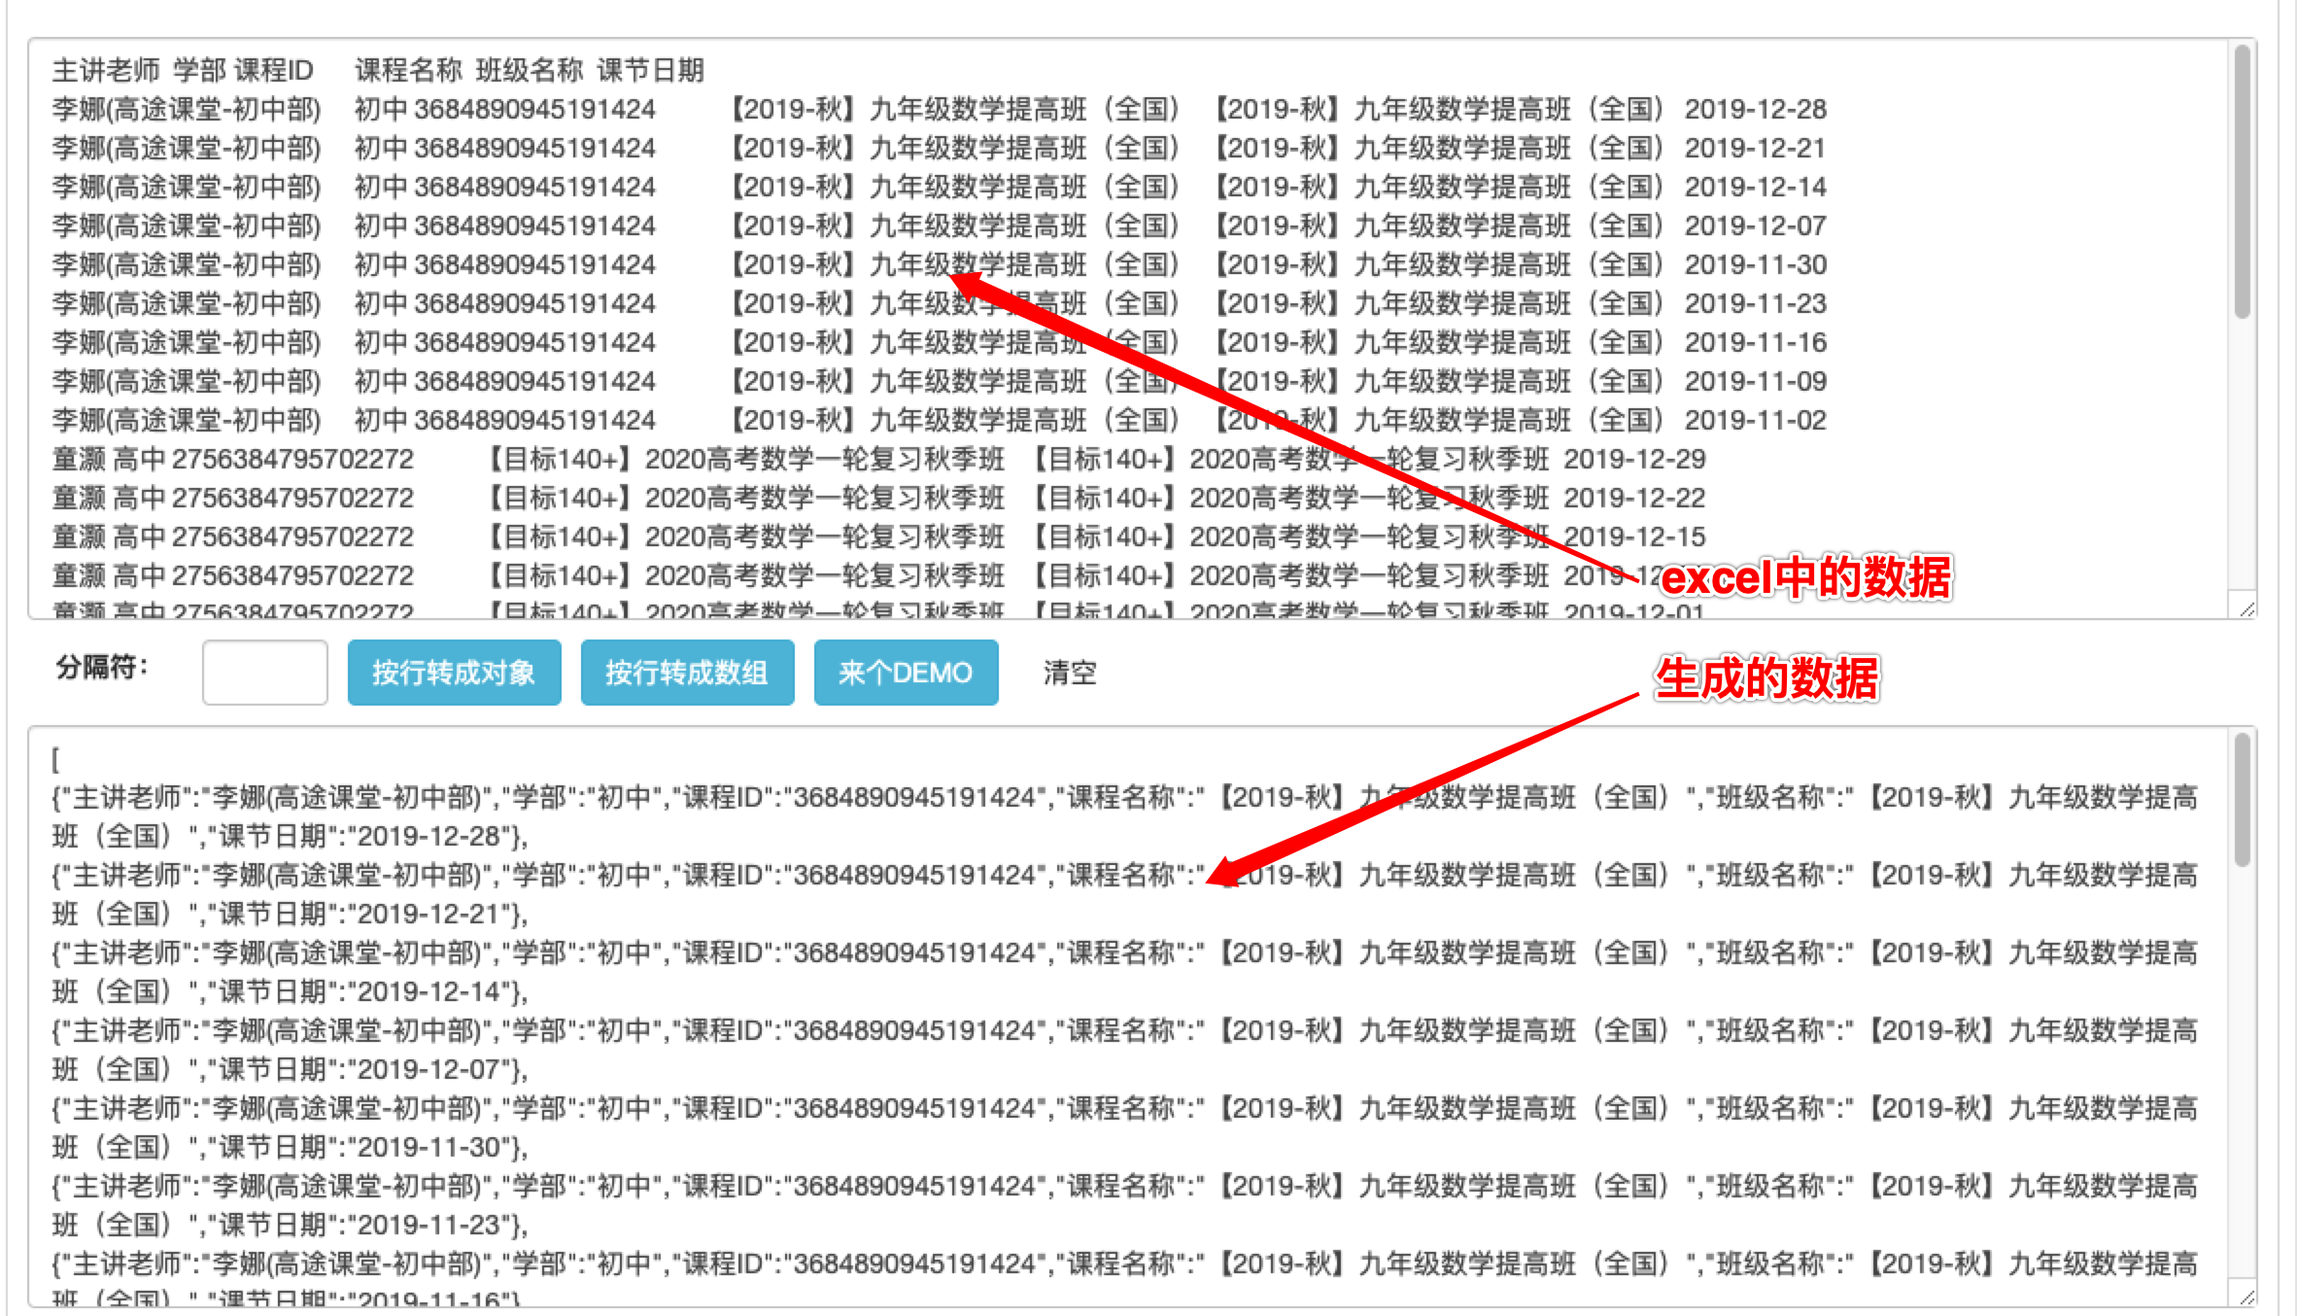
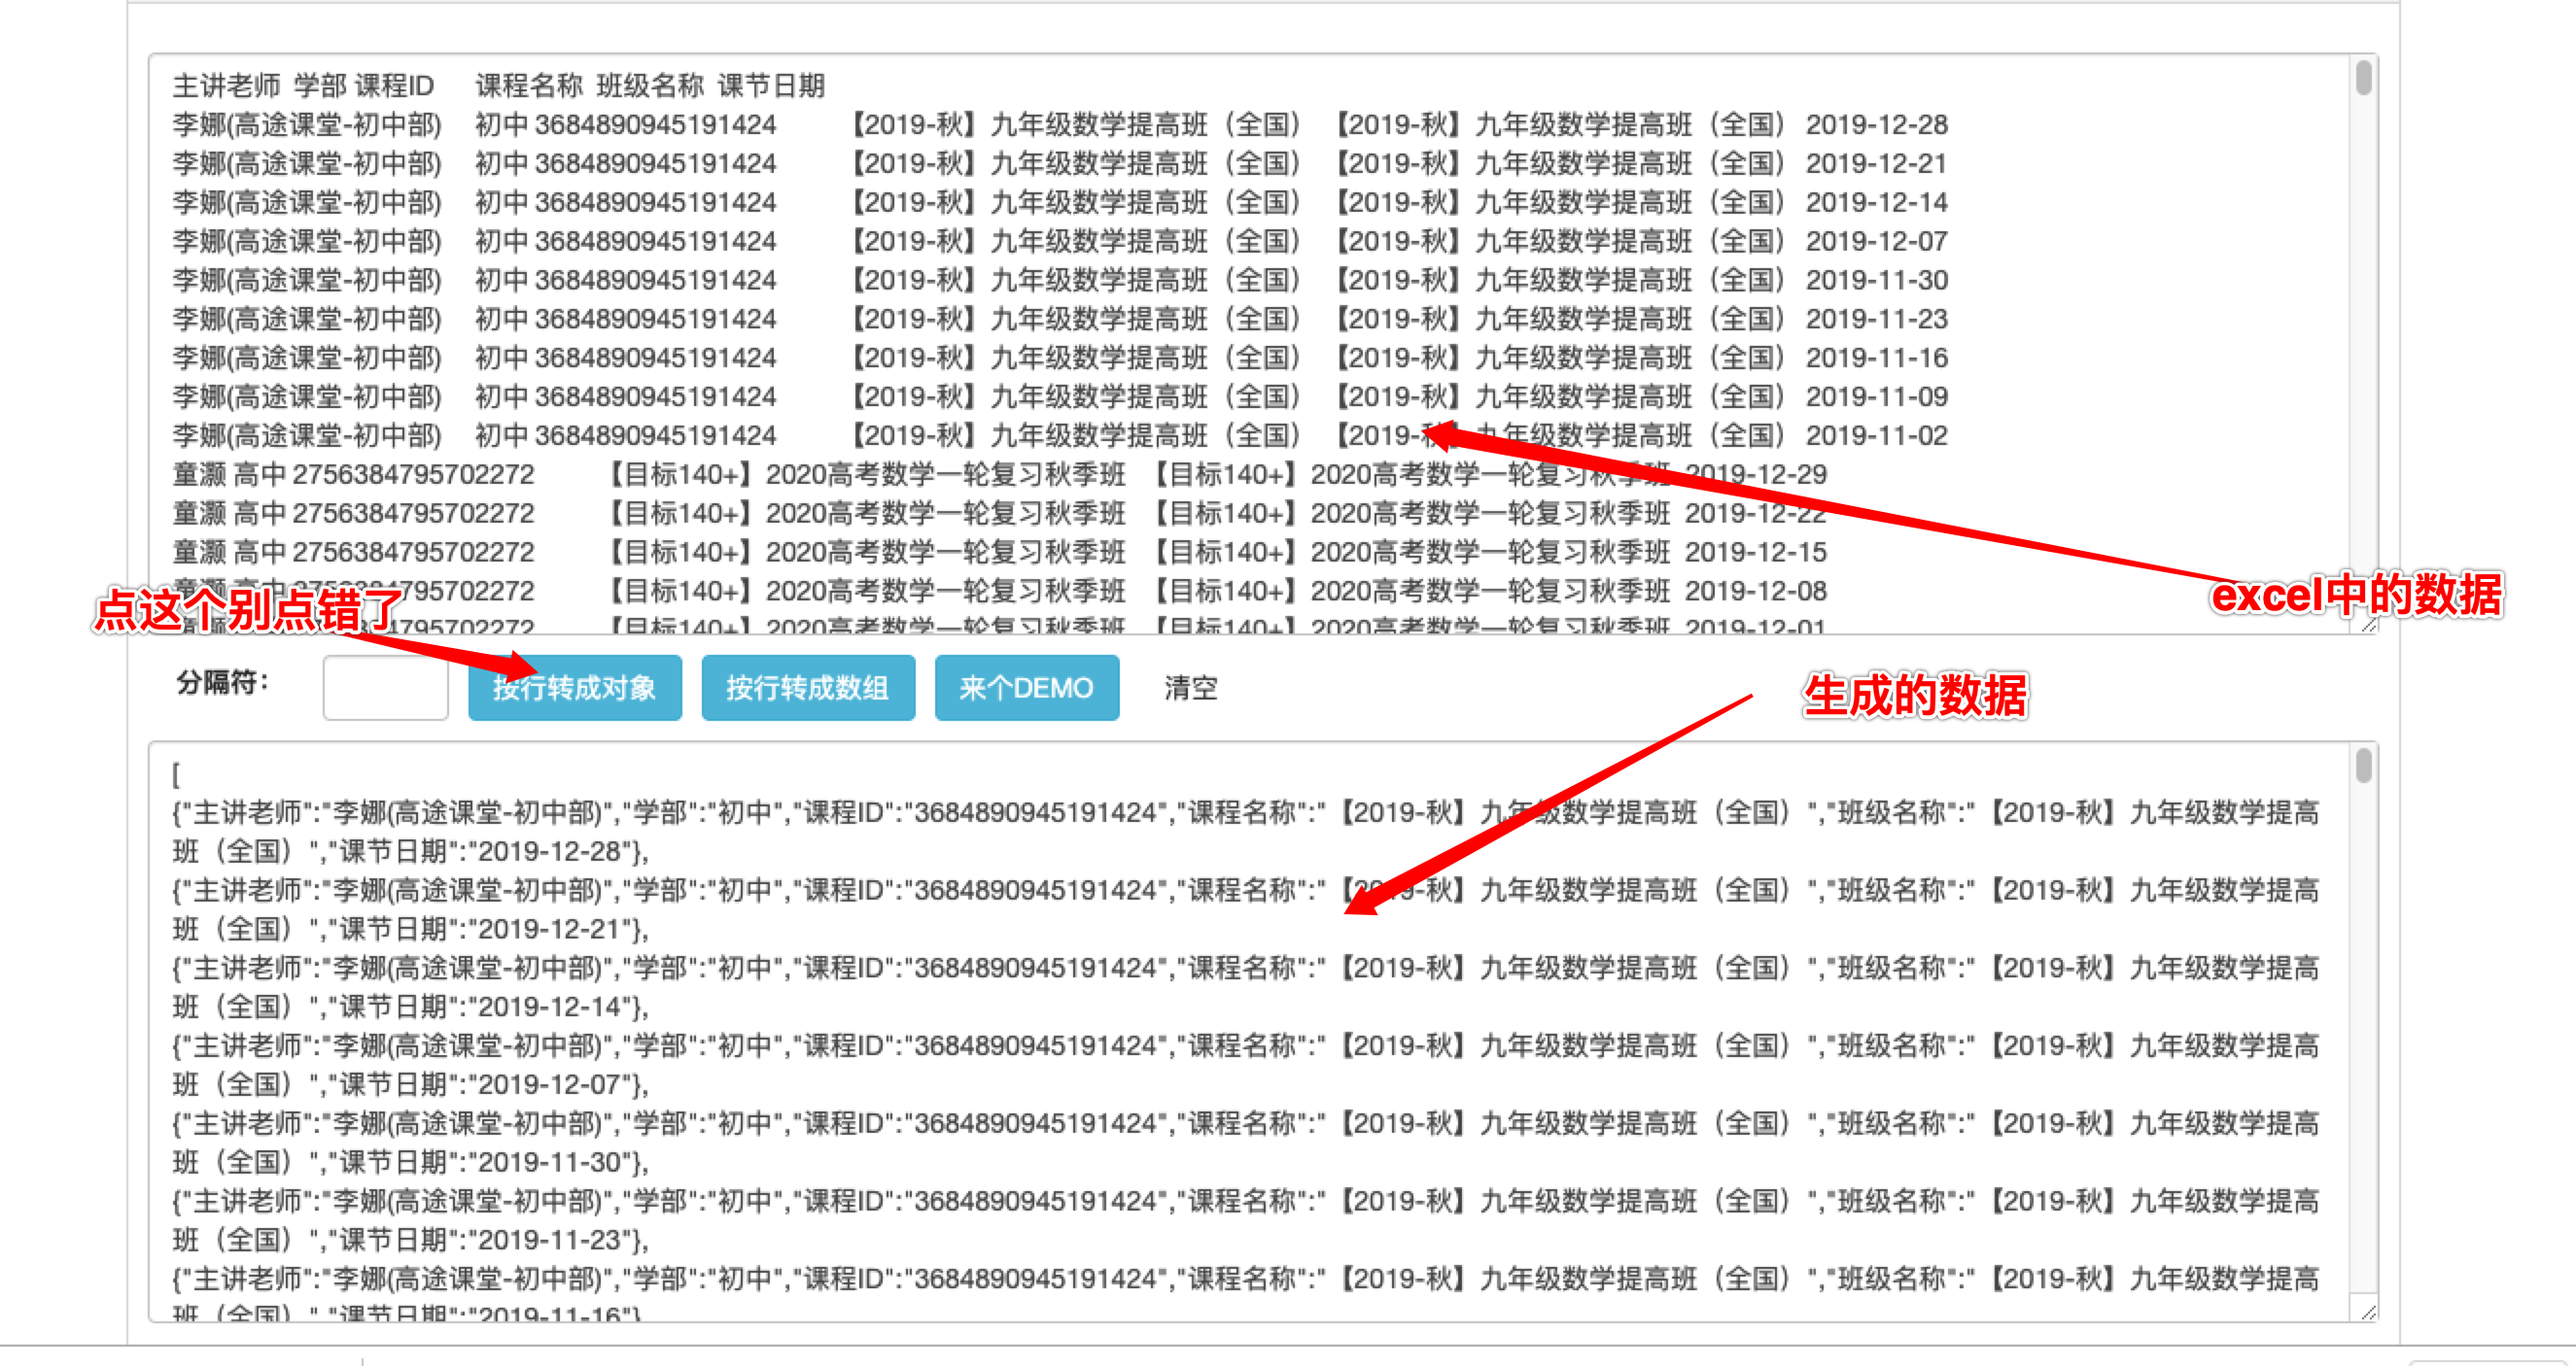
Add files via upload

diff --git a/index.html b/index.html
@@ -27,8 +27,8 @@
                 >
             </p>
             <p>2.将excel表中的数据copy到打开网页的第一个输入框</p>
-            <p>3.点击“将行转化为数组”</p>
-            <p>4.生成如下数据</p>
+            <p>3.点击“将行转化为对象”</p>
+            <p>4.生成如下数据（下图看不清请右键于新标签页打开图片）</p>
             <img src="./json.png" alt="" class="img" />
         </div>
         <div class="">
@@ -45,27 +45,27 @@
         <textarea id="outer" name="" id="" cols="80" rows="30"></textarea>
         <script>
             var defaultPrevData =
-            '[\n'+
-            '   {\n'+
-            '       "主讲老师": "李娜(高途课堂-初中部)",\n'+
-            '       "学部": "初中",\n'+
-            '       "课程ID": "3684890945191424",\n'+
-            '       "课程名称": "【2019-秋】九年级数学提高班（全国）",\n'+
-            '       "班级名称": "【2019-秋】九年级数学提高班（全国）",\n'+
-            '       "课节日期": "2019-12-28"\n'+
-            '    },\n'+
-            '    {\n'+
-            '       "主讲老师": "李娜(高途课堂-初中部)",\n'+
-            '       "学部": "初中",\n'+
-            '       "课程ID": "3684890945191424",\n'+
-            '       "课程名称": "【2019-秋】九年级数学提高班（全国）",\n'+
-            '       "班级名称": "【2019-秋】九年级数学提高班（全国）",\n'+
-            '       "课节日期": "2019-12-21"\n'+
-            '   }\n'+
-            ']\n'
+                '[\n' +
+                '   {\n' +
+                '       "主讲老师": "李娜(高途课堂-初中部)",\n' +
+                '       "学部": "初中",\n' +
+                '       "课程ID": "3684890945191424",\n' +
+                '       "课程名称": "【2019-秋】九年级数学提高班（全国）",\n' +
+                '       "班级名称": "【2019-秋】九年级数学提高班（全国）",\n' +
+                '       "课节日期": "2019-12-28"\n' +
+                '    },\n' +
+                '    {\n' +
+                '       "主讲老师": "李娜(高途课堂-初中部)",\n' +
+                '       "学部": "初中",\n' +
+                '       "课程ID": "3684890945191424",\n' +
+                '       "课程名称": "【2019-秋】九年级数学提高班（全国）",\n' +
+                '       "班级名称": "【2019-秋】九年级数学提高班（全国）",\n' +
+                '       "课节日期": "2019-12-21"\n' +
+                '   }\n' +
+                ']\n';
             document.getElementById('inner').value = defaultPrevData;
-            document.getElementById('outer').value = '2019-12-21 0 0 0 1 0 0\n'+'2019-12-28 0 0 0 1 0 0'
-
+            document.getElementById('outer').value =
+                '2019-12-21 0 0 0 1 0 0\n' + '2019-12-28 0 0 0 1 0 0';
         </script>
     </body>
 </html>
@@ -97,58 +97,64 @@
     };
 
     const handleClick = () => {
-        document.getElementById('outer').value = ''
-        const datas = JSON.parse(document.getElementById('inner').value.trim());
-        const dataMap = {};
+        try {
+            document.getElementById('outer').value = '';
+            const datas = JSON.parse(
+                document.getElementById('inner').value.trim()
+            );
+            const dataMap = {};
 
-        datas.map(data => {
-            const lessonDay = data[lessonDayName];
-            if (dataMap[lessonDay]) {
-                dataMap[lessonDay].push(data);
-            } else {
-                dataMap[lessonDay] = [];
-                dataMap[lessonDay].push(data);
-            }
-        });
-
-        Object.keys(dataMap).map(lessonDay => {
-            const dayList = dataMap[lessonDay];
-            // console.log(lessonDay, dataMap[lessonDay].length)
-        });
-
-        Object.keys(dataMap).map(lessonDay => {
-            const dayList = dataMap[lessonDay];
-            dataMap[lessonDay] = dayListToK12List(dayList);
-        });
-
-        Object.keys(dataMap).map(lessonDay => {
-            const dayMap = dataMap[lessonDay];
-            Object.keys(dayMap).map(xuebu => {
-                const xuebuList = dayMap[xuebu];
-                dayMap[xuebu] = xuebuListToMoniList(xuebuList);
-            });
-        });
-
-        const dataMap2 = {};
-        Object.keys(dataMap)
-            .sort()
-            .forEach(function(key) {
-                dataMap2[key] = dataMap[key];
+            datas.map(data => {
+                const lessonDay = data[lessonDayName];
+                if (dataMap[lessonDay]) {
+                    dataMap[lessonDay].push(data);
+                } else {
+                    dataMap[lessonDay] = [];
+                    dataMap[lessonDay].push(data);
+                }
             });
 
-        Object.keys(dataMap2).map(lessonDay => {
-            const dayMap = dataMap[lessonDay];
-            const row = [
-                lessonDay,
-                dayMap['小学']['模拟'].length,
-                dayMap['小学']['正价'].length,
-                dayMap['初中']['模拟'].length,
-                dayMap['初中']['正价'].length,
-                dayMap['高中']['模拟'].length,
-                dayMap['高中']['正价'].length
-            ].join(' ');
-            document.getElementById('outer').value =
-                document.getElementById('outer').value + row + '\n';
-        });
+            Object.keys(dataMap).map(lessonDay => {
+                const dayList = dataMap[lessonDay];
+                // console.log(lessonDay, dataMap[lessonDay].length)
+            });
+
+            Object.keys(dataMap).map(lessonDay => {
+                const dayList = dataMap[lessonDay];
+                dataMap[lessonDay] = dayListToK12List(dayList);
+            });
+
+            Object.keys(dataMap).map(lessonDay => {
+                const dayMap = dataMap[lessonDay];
+                Object.keys(dayMap).map(xuebu => {
+                    const xuebuList = dayMap[xuebu];
+                    dayMap[xuebu] = xuebuListToMoniList(xuebuList);
+                });
+            });
+
+            const dataMap2 = {};
+            Object.keys(dataMap)
+                .sort()
+                .forEach(function(key) {
+                    dataMap2[key] = dataMap[key];
+                });
+
+            Object.keys(dataMap2).map(lessonDay => {
+                const dayMap = dataMap[lessonDay];
+                const row = [
+                    lessonDay,
+                    dayMap['小学']['模拟'].length,
+                    dayMap['小学']['正价'].length,
+                    dayMap['初中']['模拟'].length,
+                    dayMap['初中']['正价'].length,
+                    dayMap['高中']['模拟'].length,
+                    dayMap['高中']['正价'].length
+                ].join(' ');
+                document.getElementById('outer').value =
+                    document.getElementById('outer').value + row + '\n';
+            });
+        } catch (error) {
+            alert('把这个截图给工具人小李！' + error.toString());
+        }
     };
 </script>
